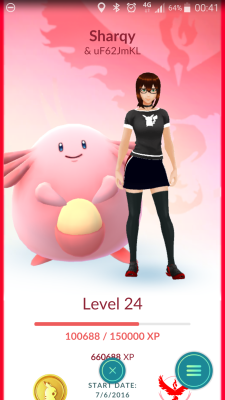
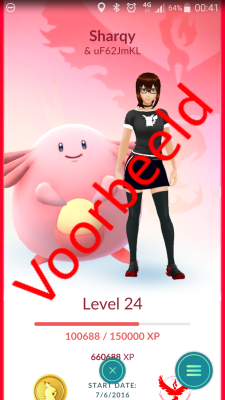
Add home page

Changed region(s): [[0.0311, 0.21, 0.9644, 0.75]]

diff --git a/app/resources/views/layouts/topnav.blade.php b/app/resources/views/layouts/topnav.blade.php
@@ -52,5 +52,9 @@
 
 </div>
 
+<a href="https://github.com/WaveHack/pogomap-inschrijf" class="github-corner" aria-label="View source on Github" target="_blank"><svg width="80" height="80" viewBox="0 0 250 250" style="fill:#151513; color:#fff; position: absolute; top: 0; border: 0; right: 0;" aria-hidden="true"><path d="M0,0 L115,115 L130,115 L142,142 L250,250 L250,0 Z"></path><path d="M128.3,109.0 C113.8,99.7 119.0,89.6 119.0,89.6 C122.0,82.7 120.5,78.6 120.5,78.6 C119.2,72.0 123.4,76.3 123.4,76.3 C127.3,80.9 125.5,87.3 125.5,87.3 C122.9,97.6 130.6,101.9 134.4,103.2" fill="currentColor" style="transform-origin: 130px 106px;" class="octo-arm"></path><path d="M115.0,115.0 C114.9,115.1 118.7,116.5 119.8,115.4 L133.7,101.6 C136.9,99.2 139.9,98.4 142.2,98.6 C133.8,88.0 127.5,74.4 143.8,58.0 C148.5,53.4 154.0,51.2 159.7,51.0 C160.3,49.4 163.2,43.6 171.4,40.1 C171.4,40.1 176.1,42.5 178.8,56.2 C183.1,58.6 187.2,61.8 190.9,65.4 C194.5,69.0 197.7,73.2 200.1,77.6 C213.8,80.2 216.3,84.9 216.3,84.9 C212.7,93.1 206.9,96.0 205.4,96.6 C205.1,102.4 203.0,107.8 198.3,112.5 C181.9,128.9 168.3,122.5 157.7,114.1 C157.9,116.9 156.7,120.9 152.7,124.9 L141.0,136.5 C139.8,137.7 141.6,141.9 141.8,141.8 Z" fill="currentColor" class="octo-body"></path></svg></a><style>.github-corner:hover .octo-arm{animation:octocat-wave 560ms ease-in-out}@keyframes octocat-wave{0%,100%{transform:rotate(0)}20%,60%{transform:rotate(-25deg)}40%,80%{transform:rotate(10deg)}}@media (max-width:500px){.github-corner:hover .octo-arm{animation:none}.github-corner .octo-arm{animation:octocat-wave 560ms ease-in-out}}</style>
+
+@include('partials.scripts')
+
 </body>
 </html>

diff --git a/app/resources/views/pages/home.blade.php b/app/resources/views/pages/home.blade.php
@@ -1,0 +1,18 @@
+@extends('layouts.topnav')
+
+@section('page-header', ('Welkom bij de ' . config('app.name') . '!'))
+
+@section('content')
+    <p>
+        <a href="{{ asset('assets/app/images/map_example.png') }}">
+            <img src="{{ asset('assets/app/images/map_example.png') }}" class="img img-responsive" alt="Voorbeeld">
+        </a>
+    </p>
+
+    <p>Voordat je de map kan gebruiken dien je je eerst <a href="{{ route('register') }}">in te schrijven</a>.</p>
+
+    <p>
+        <a href="{{ url(env('MAP_URL')) }}" class="btn btn-success btn-lg"><i class="fa fa-map-marker"></i> Naar de map</a>
+        <a href="{{ route('register') }}" class="btn btn-primary btn-lg"><i class="fa fa-pencil"></i> Inschrijven</a>
+    </p>
+@endsection

diff --git a/app/routes/web.php b/app/routes/web.php
@@ -4,8 +4,10 @@ use Illuminate\Routing\Router;
 
 /** @var \Illuminate\Routing\Router $router */
 
-$router->get('/')->uses('RegisterController@getIndex')->name('register');
-$router->post('/')->uses('RegisterController@postIndex');
+$router->get('/')->uses('HomeController@getIndex')->name('home');
+
+$router->get('register')->uses('RegisterController@getIndex')->name('register');
+$router->post('register')->uses('RegisterController@postIndex');
 
 $router->group(['prefix' => 'admin'], function (Router $router) {
 

diff --git a/src/Http/Controllers/HomeController.php b/src/Http/Controllers/HomeController.php
@@ -1,0 +1,11 @@
+<?php
+
+namespace App\Http\Controllers;
+
+class HomeController extends Controller
+{
+    public function getIndex()
+    {
+        return view('pages.home');
+    }
+}
